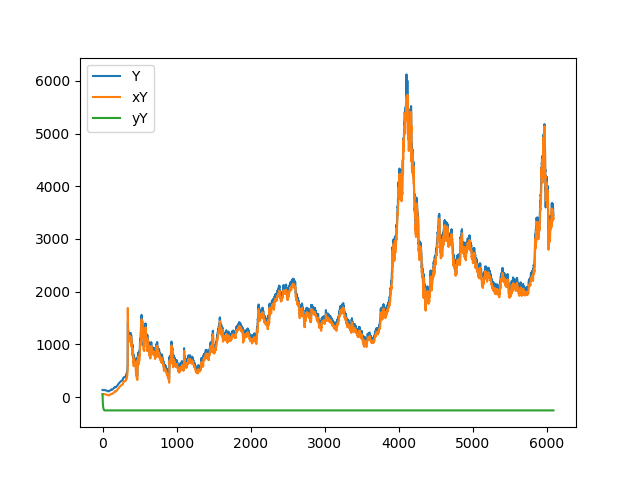
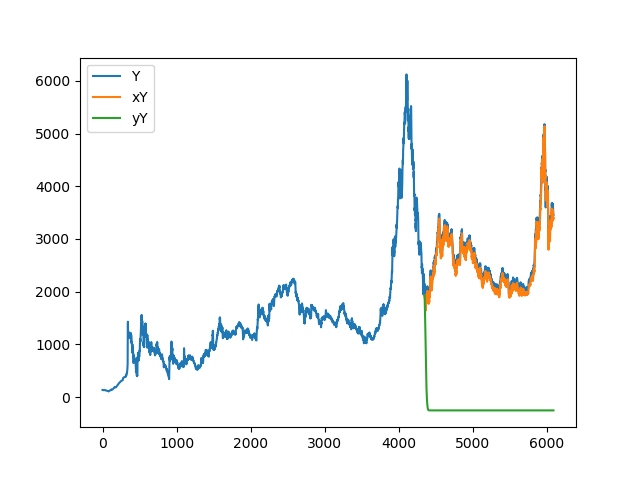
aaa

Changed region(s): [[0.1875, 0.5938, 0.5938, 0.8125], [0.1562, 0.5312, 0.6875, 0.875], [0.5938, 0.1875, 0.6562, 0.6875]]

diff --git a/AIStudy/rnn/stock_predict/lstm/pred.py b/AIStudy/rnn/stock_predict/lstm/pred.py
@@ -20,8 +20,6 @@ rnn_unit = 5
 
 num = 1
         
-x_pred = x[0]
-x_pred = x_pred.reshape([-1,step,input_size])
 
 weight = {
 	'in':   tf.Variable(tf.random_normal([input_size,rnn_unit]),name='w_in'),
@@ -54,20 +52,21 @@ def lstm(batch):
 def pred():
 	rnn,pred_y = lstm(1)	
 	saver = tf.train.Saver()
-	global x_pred
+	x_pred = x[index]
+	x_pred = x_pred.reshape([-1,step,input_size])
 	with tf.Session() as sess:
 		saver.restore(sess,'/ckpt/rnn.ckpt')
 		predy_by_x_list = []
 		predy_by_y_list = []
-		for i in range(len(y)):
+		for i in range(index,len(x)):
 			predy_by_x_list.append(sess.run(pred_y,feed_dict={X:x[i:i+1]}))
 			pred_by_y = sess.run(pred_y,feed_dict={X:x_pred})
 			predy_by_y_list.append(pred_by_y)
 			x_pred[0] = vstack((x_pred[0][1:],pred_by_y))
 		plt.plot(scaler.inverse_transform(y))
-		plt.plot(scaler.inverse_transform(predy_by_x_list).reshape([-1]))
-		plt.plot(scaler.inverse_transform(predy_by_y_list).reshape([-1]))
+		plt.plot(range(index,len(x)),scaler.inverse_transform(predy_by_x_list).reshape([-1]))
+		plt.plot(range(index,len(x)),scaler.inverse_transform(predy_by_y_list).reshape([-1]))
 		plt.legend(['Y','xY','yY'])
 		plt.savefig('demo.png')
-
+index = (int)((5.0/7)*len(x))
 pred()
